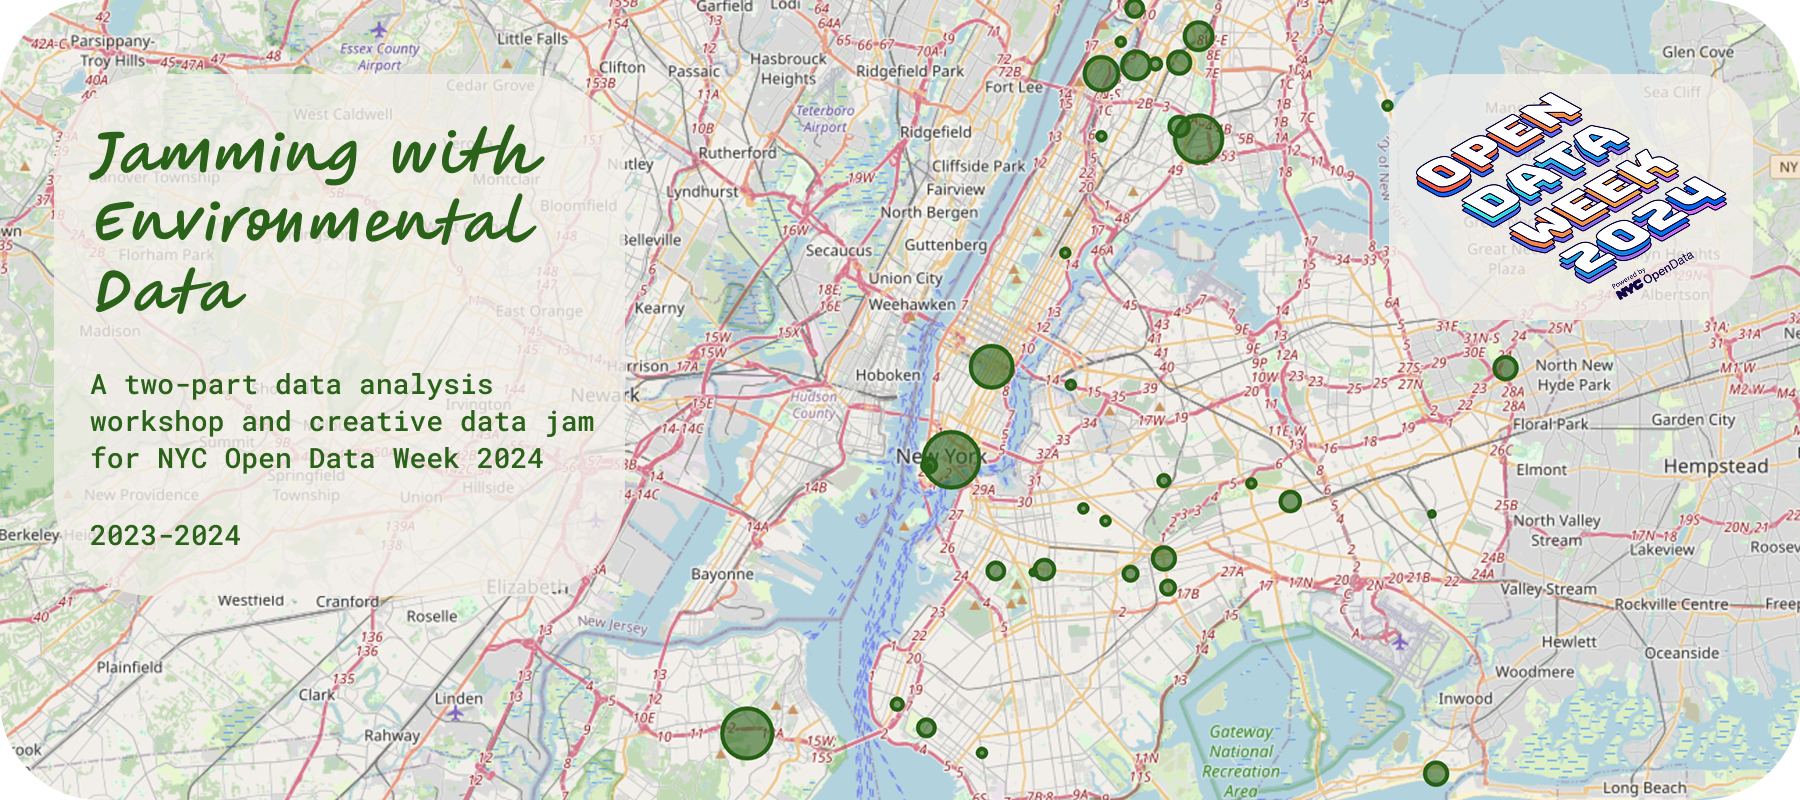
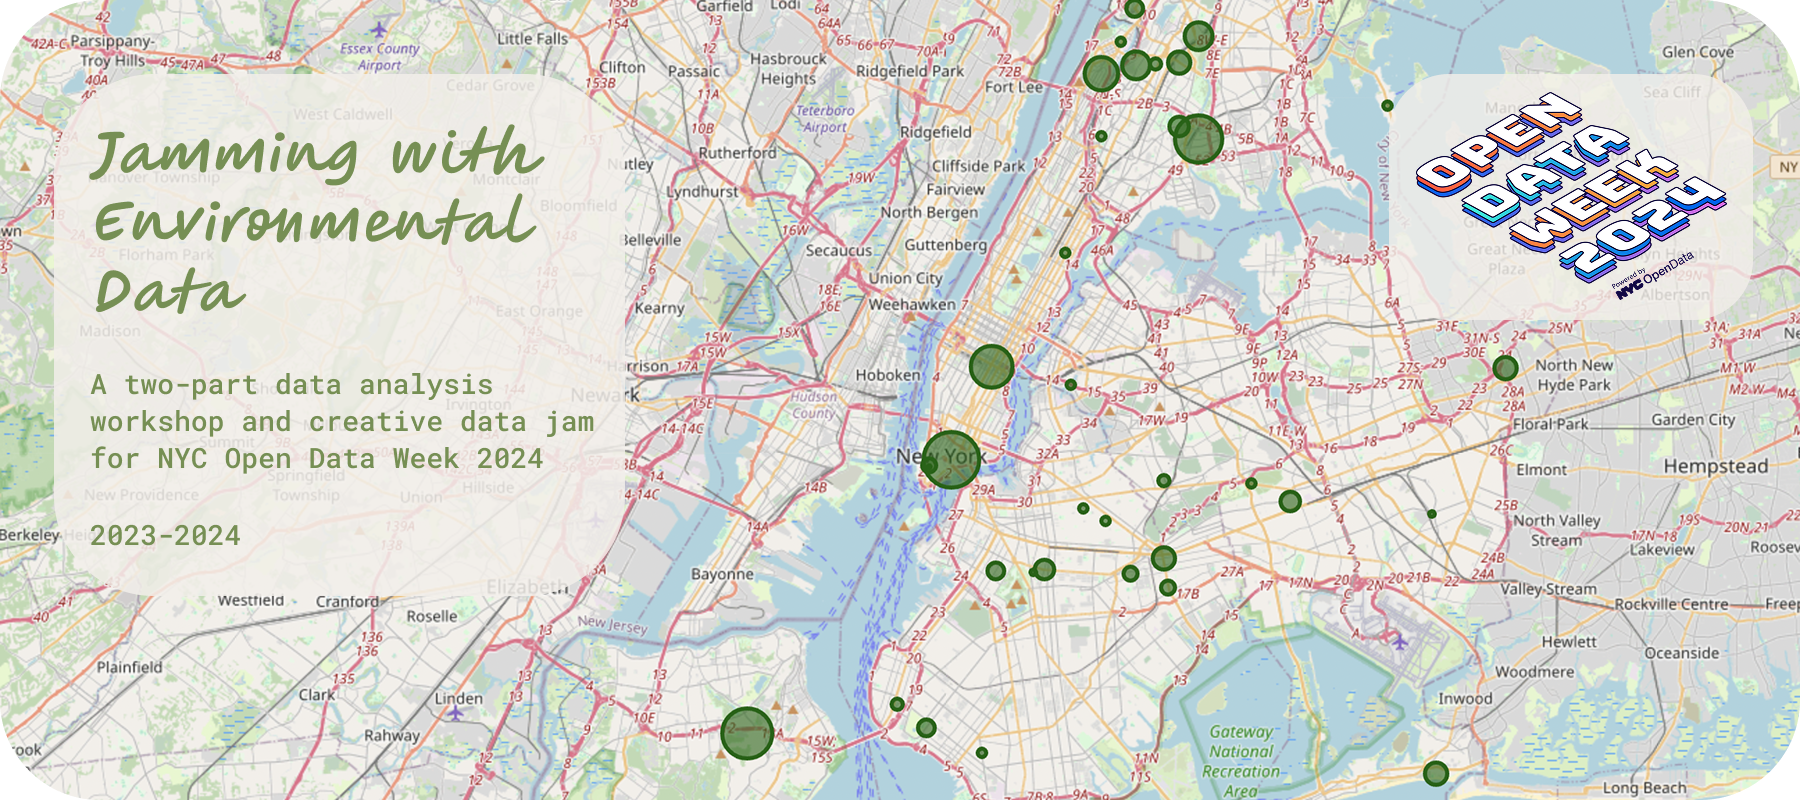
added about page and updated page backgrounds

diff --git a/style.css b/style.css
@@ -60,116 +60,116 @@
 body {
     --page-bg: #084887;
     --page-text: #dbe6ff;
-
     --title-color: #dbe6ff;
     --h2-color: #dbe6ff;
-    --h3-color: #e83f7c;
+    --h3-color: #eaa9da;
+    --link-color: #eaa9da;
 
     --button-color: #dbe6ff;
     --button-border: #dbe6ff;
+    --back-description-color: #dbe6ff;
 
     --banner-bg: #dbe6ff;
     --banner-text: #084887;
-
-    --back-description-color: #dbe6ff;
 }
 
 
 /* MICROSOFT PAGE */
 
 body.microsoft-page {
-
-    --page-bg: #e9f6f4;
+    /*--page-bg: #f2faf9;*/
+    --page-bg: #ffffff;
     --page-text: #497381;
-
     --title-color: #4e9ba2;
     --h2-color: #4e9ba2;
     --h3-color: #e19060;
+    --link-color: #e19060;
 
     --button-color: #4e9ba2;
     --button-border: #4e9ba2;
+    --back-description-color: #4e9ba2;
 
     --banner-bg: #4e9ba2;
     --banner-text: #e9f6f4;
-
-    --back-description-color: #4e9ba2;
-
-    --link-color: #e19060;
 }
 
 
 /* ARCADE PAGE */
 
 body.arcade-page {
-    --page-bg: #f6f8ee;
+    /*--page-bg: #f9faf6;*/
+    --page-bg: #ffffff;
     --page-text: #3f592b;
     --title-color: #89a659;
     --h2-color: #89a659;
-    --h3-color: #b6853e;
-    --link-color: #b6853e;
+    --h3-color: #a57c3a;
+    --link-color: #a57c3a;
 
     --button-color: #89a659;
     --button-border: #89a659;
     --back-description-color: #89a659;
 
     --banner-bg: #89a659;
-    --banner-text: #f0f3e3;
+    --banner-text: #ffffff;
 }
 
 
 /* PICNIC ANTICS PAGE */
 
 body.picnic-page {
-    --page-bg: #f1f9ff;
+    /*--page-bg: #ebf4f8;*/
+    --page-bg: #ffffff;
     --page-text: #154260;
-    --title-color: #80bde4;
-    --h2-color: #80bde4;
+    --title-color: #70add3;
+    --h2-color: #70add3;
     --h3-color: #ec9233;
     --link-color: #ec9233;
 
-    --button-color: #73b2da;
-    --button-border: #73b2da;
-    --back-description-color: #73b2da;
+    --button-color: #70add3;
+    --button-border: #70add3;
+    --back-description-color: #70add3;
 
-    --banner-bg: #80bde4;
-    --banner-text: #f1f9ff;
+    --banner-bg: #70add3;
+    --banner-text: #ebf4f8;
 }
 
 
 /* DATA PAGE */
 
 body.jamming-page {
-    --page-bg: #f2efea;
-    --page-text: #2b631a;
-    --title-color: #2b631a;
-    --h2-color: #2b631a;
+    /*--page-bg: #fdfcf7;*/
+    --page-bg: #ffffff;
+    --page-text: #3c492b;
+    --title-color: #768f54;
+    --h2-color: #768f54;
     --h3-color: #d87a8e;
     --link-color: #d87a8e;
 
-    --button-color: #2b631a;
-    --button-border: #2b631a;
-    --back-description-color: #2b631a;
+    --button-color: #768f54;
+    --button-border: #768f54;
+    --back-description-color: #768f54;
 
-    --banner-bg: #2b631a;
-    --banner-text: #f2efea;
+    --banner-bg: #768f54;
+    --banner-text: #fdfcf7;
 }
 
 
 /* DATA PAGE */
 
 body.meal-page {
-    --page-bg: #f0f0f4;
+    /*--page-bg: #f5f5fb;*/
+    --page-bg: #ffffff;
     --page-text: #423365;
-    --title-color: #7455ba;
-    --h2-color: #7455ba;
+    --title-color: #8e73cf;
+    --h2-color: #8e73cf;
     --h3-color: #6a9ee6;
     --link-color: #6a9ee6;
 
-    --button-color: #7455ba;
-    --button-border: #7455ba;
-    --back-description-color: #7455ba;
+    --button-color: #8e73cf;
+    --button-border: #8e73cf;
+    --back-description-color: #8e73cf;
 
-    --banner-bg: #7455ba;
+    --banner-bg: #8e73cf;
     --banner-text: #f0f0f4;
 }
 